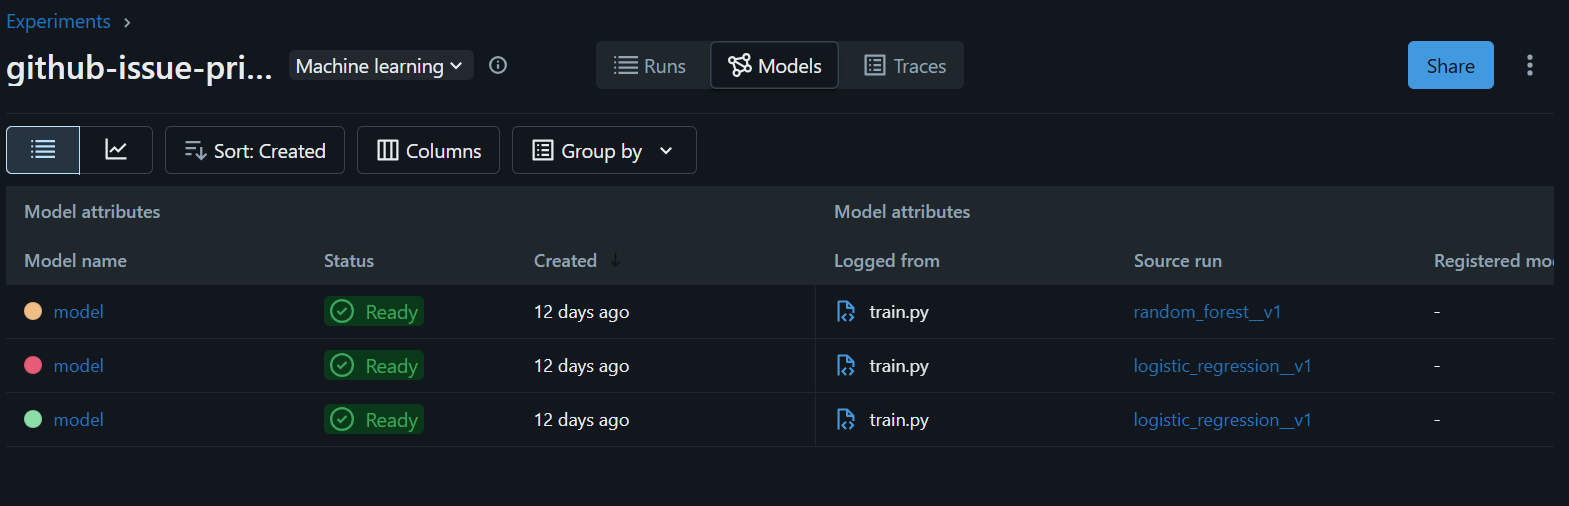
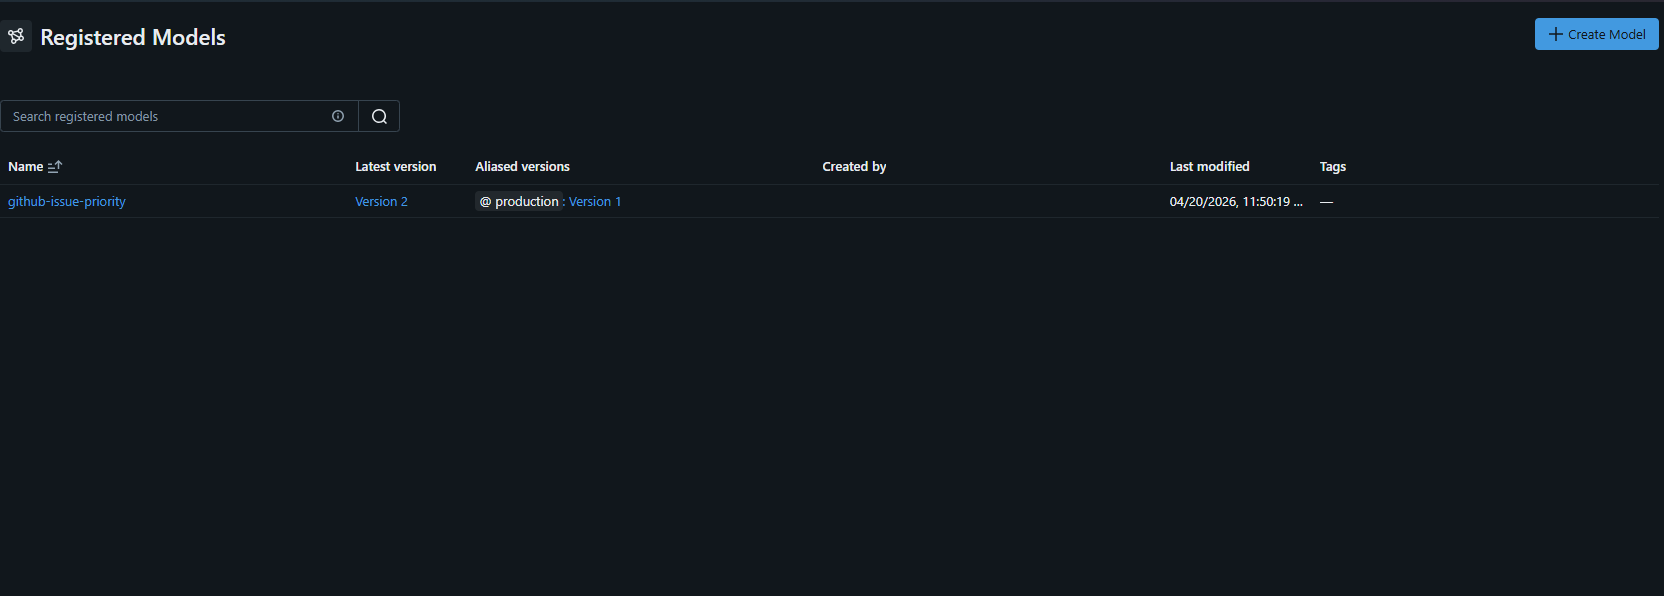
add mlflow evidence

diff --git a/tests/test_monitor.py b/tests/test_monitor.py
@@ -457,14 +457,14 @@ def test_register_best_model_promotes_to_production_when_f1_high():
 
     mock_mv     = MagicMock(); mock_mv.version = "5"
     mock_client = MagicMock()
-    mock_client.get_latest_versions.return_value = []
+    mock_client.get_model_version_by_alias.side_effect = Exception("no alias")
 
     with patch("src.models.train.mlflow.register_model", return_value=mock_mv), \
          patch("src.models.train.MlflowClient", return_value=mock_client):
         register_best_model("run-id", f1_macro=PRODUCTION_THRESHOLD + 0.1, data_version="v1")
 
-    stage_calls = [str(c) for c in mock_client.transition_model_version_stage.call_args_list]
-    assert any("Production" in c for c in stage_calls)
+    alias_calls = [str(c) for c in mock_client.set_registered_model_alias.call_args_list]
+    assert any("production" in c for c in alias_calls)
 
 
 def test_register_best_model_leaves_in_staging_when_f1_low():
@@ -474,15 +474,15 @@ def test_register_best_model_leaves_in_staging_when_f1_low():
 
     mock_mv     = MagicMock(); mock_mv.version = "2"
     mock_client = MagicMock()
-    mock_client.get_latest_versions.return_value = []
+    mock_client.get_model_version_by_alias.side_effect = Exception("no alias")
 
     with patch("src.models.train.mlflow.register_model", return_value=mock_mv), \
          patch("src.models.train.MlflowClient", return_value=mock_client):
         register_best_model("run-id", f1_macro=PRODUCTION_THRESHOLD - 0.1, data_version="v1")
 
-    stage_calls = [str(c) for c in mock_client.transition_model_version_stage.call_args_list]
-    assert any("Staging" in c for c in stage_calls)
-    assert not any("Production" in c for c in stage_calls)
+    alias_calls = [str(c) for c in mock_client.set_registered_model_alias.call_args_list]
+    assert any("staging" in c for c in alias_calls)
+    assert not any("production" in c for c in alias_calls)
 
 
 def test_register_best_model_archives_previous_production():
@@ -493,11 +493,11 @@ def test_register_best_model_archives_previous_production():
     mock_mv     = MagicMock(); mock_mv.version = "4"
     mock_client = MagicMock()
     old_prod    = MagicMock(); old_prod.version = "3"
-    mock_client.get_latest_versions.return_value = [old_prod]
+    mock_client.get_model_version_by_alias.return_value = old_prod
 
     with patch("src.models.train.mlflow.register_model", return_value=mock_mv), \
          patch("src.models.train.MlflowClient", return_value=mock_client):
         register_best_model("run-id", f1_macro=PRODUCTION_THRESHOLD + 0.1, data_version="v2")
 
-    stage_calls = [str(c) for c in mock_client.transition_model_version_stage.call_args_list]
-    assert any("Archived" in c for c in stage_calls)
+    alias_calls = [str(c) for c in mock_client.set_registered_model_alias.call_args_list]
+    assert any("archived" in c for c in alias_calls)

diff --git a/src/models/train.py b/src/models/train.py
@@ -159,21 +159,21 @@ def register_best_model(run_id: str, f1_macro: float, data_version: str,
         client.set_model_version_tag(REGISTRY_NAME, version, "f1_macro",     str(round(f1_macro, 4)))
 
         if f1_macro >= production_threshold:
-            for old in client.get_latest_versions(REGISTRY_NAME, stages=["Production"]):
-                log.info(f"  Archiving previous Production v{old.version}")
-                client.transition_model_version_stage(
-                    name=REGISTRY_NAME, version=old.version,
-                    stage="Archived", archive_existing_versions=False,
+            # Archive previous production version by renaming its alias
+            try:
+                prev = client.get_model_version_by_alias(REGISTRY_NAME, "production")
+                client.delete_registered_model_alias(REGISTRY_NAME, "production")
+                client.set_registered_model_alias(
+                    REGISTRY_NAME, f"archived-v{prev.version}", prev.version
                 )
-            client.transition_model_version_stage(
-                name=REGISTRY_NAME, version=version, stage="Production",
-            )
-            log.info(f"  ✅ v{version} → Production  (F1={f1_macro:.4f} ≥ {production_threshold})")
+                log.info(f"  Archived previous production v{prev.version}")
+            except Exception:
+                pass  # No previous production version exists yet
+            client.set_registered_model_alias(REGISTRY_NAME, "production", version)
+            log.info(f"  ✅ v{version} → alias:production  (F1={f1_macro:.4f} ≥ {production_threshold})")
         else:
-            client.transition_model_version_stage(
-                name=REGISTRY_NAME, version=version, stage="Staging",
-            )
-            log.info(f"  ⚠  v{version} → Staging  (F1={f1_macro:.4f} < {production_threshold})")
+            client.set_registered_model_alias(REGISTRY_NAME, "staging", version)
+            log.info(f"  ⚠  v{version} → alias:staging  (F1={f1_macro:.4f} < {production_threshold})")
 
         return version
     except Exception as exc:

diff --git a/src/data/ingest.py b/src/data/ingest.py
@@ -33,12 +33,10 @@ DEFAULT_REPOS = [
     "microsoft/vscode",           # ~180k issues, excellent label discipline
     "microsoft/TypeScript",       # strong bug / enhancement split
     "golang/go",                  # priority labels, very clean
-    "rust-lang/rust",             # I-prioritize-high / I-enhancement etc.
     "kubernetes/kubernetes",      # priority/critical-urgent labels
     "ansible/ansible",            # bug / feature / docs well used
 
     # ── Enhancement / feature heavy ──
-    "facebook/react",             # enhancement, feature-request
     "vuejs/vue",                  # feature labels
     "sveltejs/svelte",            # enhancement-heavy
     "vitejs/vite",                # feature requests well labelled
